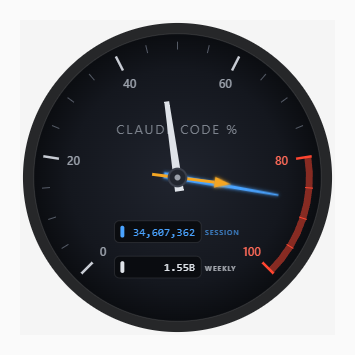
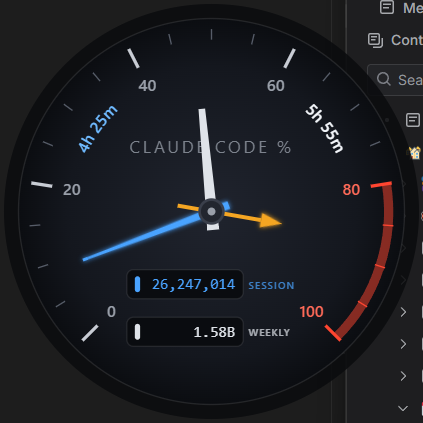
Add reset countdown timers, layout polish, portable launcher
- Curved bezel-style reset countdowns on the dial ring (session 20-40 gap,
  weekly 60-80 gap), ticking locally off the system clock; API refresh only
  requested when a countdown expires
- Odometer block resized and repositioned into the dial's bottom void with
  SESSION/WEEKLY captions beside the boxes
- Gentler usage polling: 3-min cadence, exponential backoff on errors, and
  the status line stays quiet while the last good reading is fresh
- Launcher VBS now resolves its own directory (portable across clones)
- .gitignore for node_modules

diff --git a/renderer.js b/renderer.js
@@ -19,6 +19,7 @@ const shown = { session: 0, weekly: 0, scoped: 0 };
 const target = { session: 0, weekly: 0, scoped: 0 };
 const pinEls = {};
 let odoSessionEl = null, odoWeeklyEl = null, errEl = null;
+let timerSessionEl = null, timerWeeklyEl = null;
 
 // ---------- geometry helpers ----------
 
@@ -92,12 +93,37 @@ function build() {
     }
   }
 
-  // unit marker
+  // title
   el('text', {
     x: CX, y: CY - 44, 'text-anchor': 'middle',
     'font-size': 13, fill: '#7d838d', 'letter-spacing': '2',
     'font-family': 'Segoe UI, system-ui, sans-serif',
   }).textContent = 'CLAUDE CODE %';
+
+  // reset countdowns, laid along the dial ring like bezel text — session
+  // curves through the 20-40 gap, weekly arches through the 40-60 gap, both
+  // on an arc at r=117 so even the longest pin (session, r=104) sweeps clear
+  // beneath them. They tick locally off the system clock; an API refresh is
+  // only requested when one reaches zero.
+  // path radius sits just inside the tick-number ring (r=107) so the glyphs'
+  // visual center lands on the same circle the 20/40/60 numbers align to
+  const TIMER_R = 104;
+  el('path', { id: 'timer-arc-session', d: arcPath(TIMER_R, 0.2, 0.4), fill: 'none' }, defs);
+  el('path', { id: 'timer-arc-weekly', d: arcPath(TIMER_R, 0.6, 0.8), fill: 'none' }, defs);
+  const timerFont = {
+    'font-size': 12, 'font-weight': 600,
+    'font-family': 'Segoe UI, system-ui, sans-serif',
+  };
+  const tS = el('text', { ...timerFont, fill: '#6fbaff' });   // brightened pin blue
+  timerSessionEl = el('textPath', {
+    href: '#timer-arc-session', startOffset: '50%', 'text-anchor': 'middle',
+  }, tS);
+  timerSessionEl.textContent = '—';
+  const tW = el('text', { ...timerFont, fill: '#f4f7fb' });   // brightened pin silver
+  timerWeeklyEl = el('textPath', {
+    href: '#timer-arc-weekly', startOffset: '50%', 'text-anchor': 'middle',
+  }, tW);
+  timerWeeklyEl.textContent = '—';
 
   // odometers: session + weekly token totals, digit color = pin color,
   // fixed one-word label sitting to the right of each box; the block sits in
@@ -202,6 +228,9 @@ window.widget.onUsage((data) => {
 
   target.session = sess ? (sess.percent || 0) / 100 : 0;
   target.weekly = week ? (week.percent || 0) / 100 : 0;
+  resetsAt.session = sess?.resetsAt ? Date.parse(sess.resetsAt) : null;
+  resetsAt.weekly = week?.resetsAt ? Date.parse(week.resetsAt) : null;
+  renderTimers();
   if (scoped) {
     target.scoped = (scoped.percent || 0) / 100;
     pinEls.scoped.removeAttribute('display');
@@ -209,6 +238,44 @@ window.widget.onUsage((data) => {
     pinEls.scoped.setAttribute('display', 'none');
   }
 });
+
+// ---------- reset countdowns ----------
+// resets_at timestamps come from the usage fetch; between fetches the
+// countdown runs off the local clock. When one expires we ask the main
+// process for a fresh fetch (at most once a minute while expired).
+
+const resetsAt = { session: null, weekly: null };
+let lastRefreshReq = 0;
+
+function fmtCountdown(ms) {
+  const d = Math.floor(ms / 86_400_000);
+  const h = Math.floor((ms % 86_400_000) / 3_600_000);
+  const m = Math.floor((ms % 3_600_000) / 60_000);
+  if (d > 0) return `${d}d ${h}h`;
+  if (h > 0) return `${h}h ${String(m).padStart(2, '0')}m`;
+  return `${m}m`;
+}
+
+function renderTimers() {
+  const now = Date.now();
+  let expired = false;
+  for (const [key, elText] of [['session', timerSessionEl], ['weekly', timerWeeklyEl]]) {
+    const at = resetsAt[key];
+    if (at == null) { elText.textContent = '—'; continue; }
+    const remaining = at - now;
+    if (remaining <= 0) {
+      elText.textContent = '…';
+      expired = true;
+    } else {
+      elText.textContent = fmtCountdown(remaining);
+    }
+  }
+  if (expired && now - lastRefreshReq > 60_000) {
+    lastRefreshReq = now;
+    window.widget.refreshUsage();
+  }
+}
+setInterval(renderTimers, 5_000);
 
 function fmtOdo(n) {
   if (n == null) return '—';

diff --git a/main.js b/main.js
@@ -302,6 +302,7 @@ function createWindow() {
 }
 
 ipcMain.on('widget-close', () => app.quit());
+ipcMain.on('refresh-usage', () => pollUsage()); // countdown hit zero
 
 // CSS :hover never fires over -webkit-app-region: drag areas (the OS handles
 // them as caption hits), so detect hover here and tell the renderer.

diff --git a/preload.js b/preload.js
@@ -5,4 +5,5 @@ contextBridge.exposeInMainWorld('widget', {
   onTotals: (cb) => ipcRenderer.on('totals', (_e, data) => cb(data)),
   onHover: (cb) => ipcRenderer.on('hover', (_e, data) => cb(data)),
   close: () => ipcRenderer.send('widget-close'),
+  refreshUsage: () => ipcRenderer.send('refresh-usage'),
 });

diff --git a/README.md b/README.md
@@ -25,6 +25,11 @@ reads) in the current 5-hour session window and the rolling 7-day window,
 computed from Claude Code's local transcripts. Digit colors match the pins:
 blue = session, silver = weekly.
 
+**Reset countdowns** curve along the dial ring like bezel text — the blue
+session timer in the 20-40 gap, the silver weekly timer in the 60-80 gap.
+They tick locally off the system clock (no polling); when one hits zero the
+widget fetches fresh reset times and the just-reset pin snaps back with it.
+
 ## Data sources (all local / your own account)
 
 > **No separate billing.** The usage endpoint below is an account-metadata call